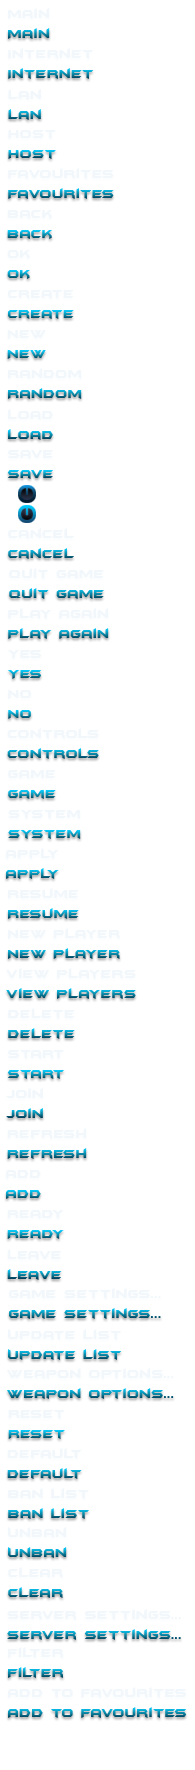
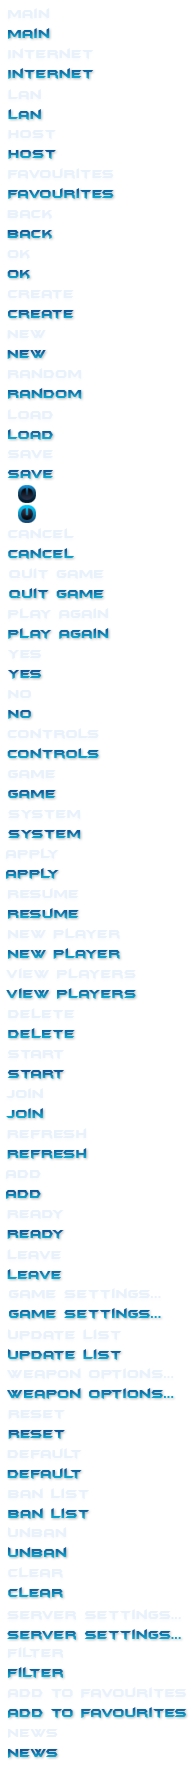
New buttons
git-svn-id: https://openlierox.svn.sourceforge.net/svnroot/openlierox@1154 34602234-ff1f-0410-a465-ea8f3b77ab7f

diff --git a/src/client/Menu_Net.cpp b/src/client/Menu_Net.cpp
@@ -87,7 +87,7 @@ int Menu_NetInitialize(void)
 						 cIpToCountryProgress.getY() + cIpToCountryProgress.getHeight())) - tLoadingRect.y;
 
 	// Setup the top buttons
-	int image_ids[] = {BUT_INTERNET, BUT_LAN, BUT_HOST, BUT_FAVOURITES, BUT_NEW/*S*/};
+	int image_ids[] = {BUT_INTERNET, BUT_LAN, BUT_HOST, BUT_FAVOURITES, BUT_NEWS};
     for(size_t i=0; i < sizeof(image_ids) / sizeof(int); ++i) {
     	cNetButtons[i].setImage(tMenu->bmpButtons);
     	cNetButtons[i].setImageID(image_ids[i]);
